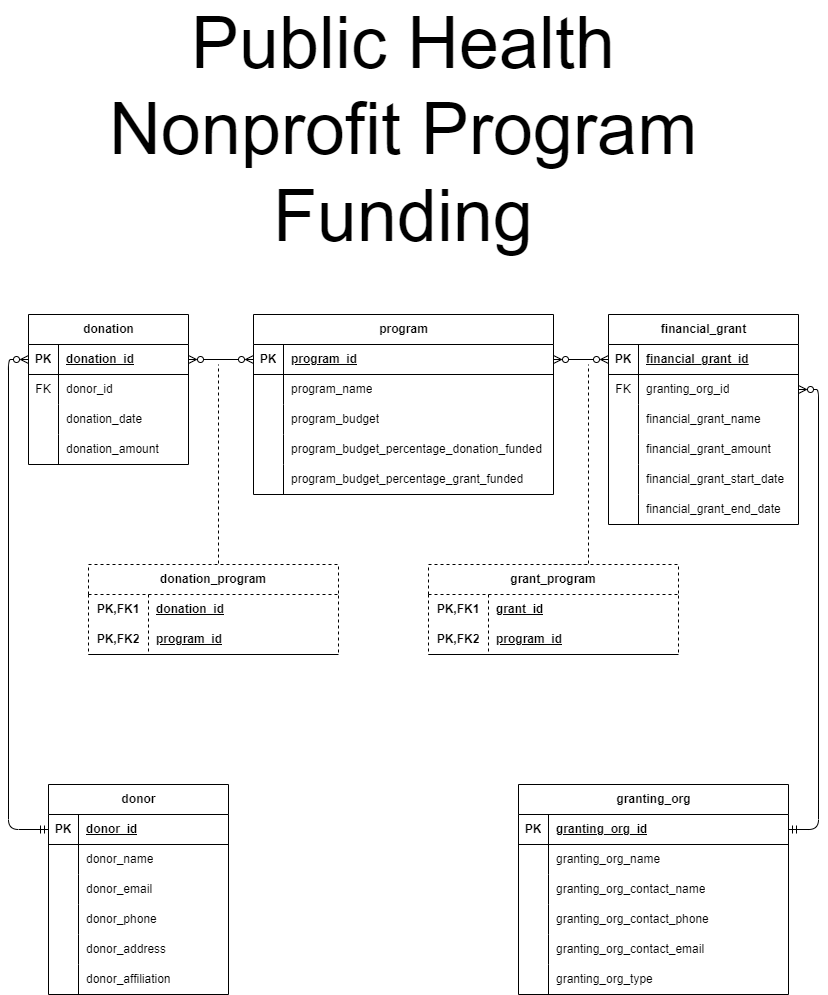
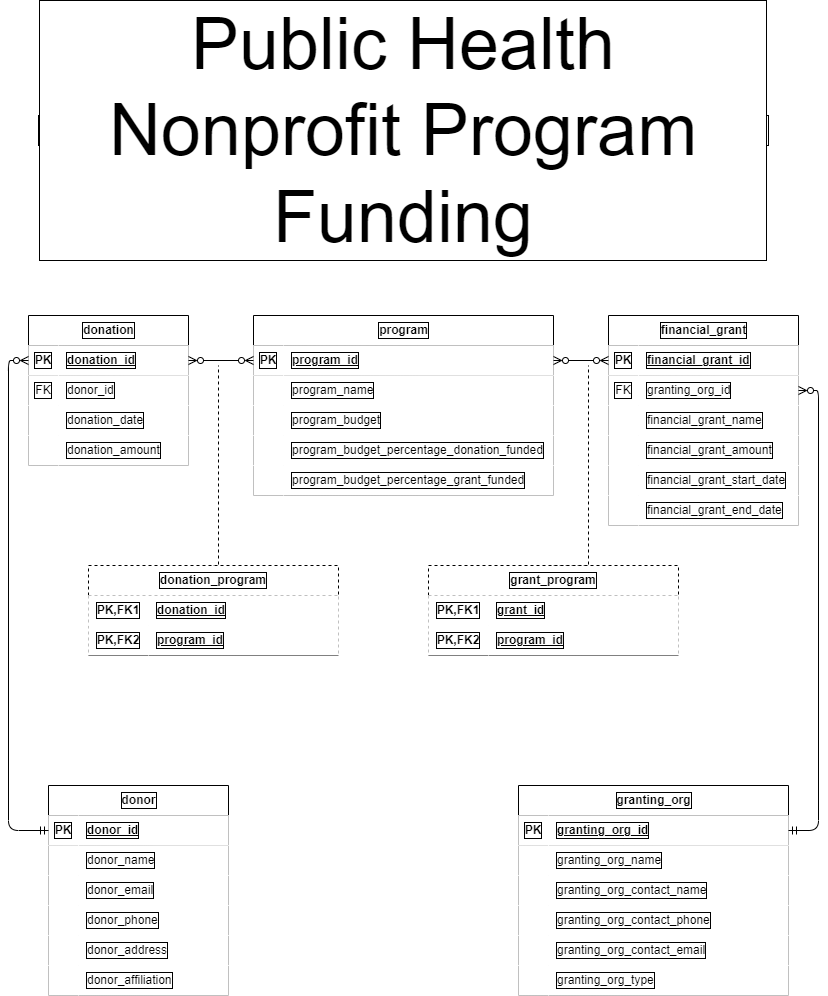
fixed coloring for png

diff --git a/README.md b/README.md
@@ -25,6 +25,10 @@ For more information on the project details, please refer to the proposal docume
 
 ---
 
+## ERD
+
+[Entity Relationship Diagram](https://github.com/ProjectGrantwood/public-health-nonprofit-program-funding/blob/main/src/main/resources/static/designdocs/PublicHealthNonprofitProgramFundingERD_final.png)
+
 ## Where the final project and the proposal differ
 
 ### *```Grant``` is now ```FinancialGrant```*
